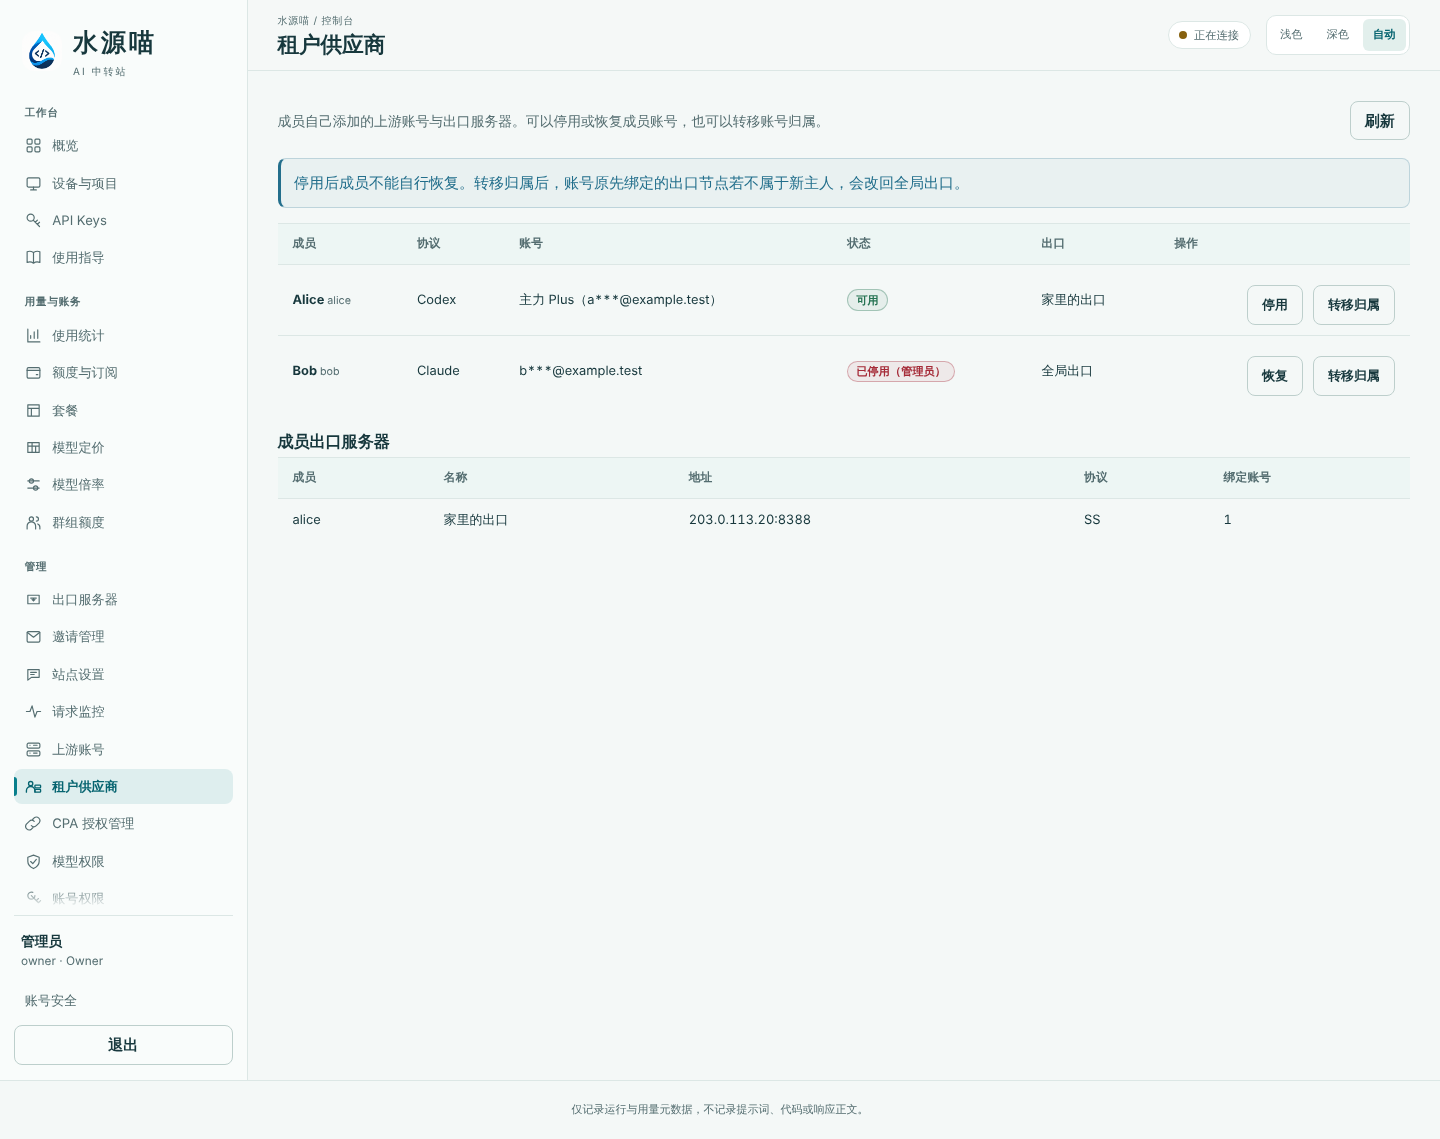
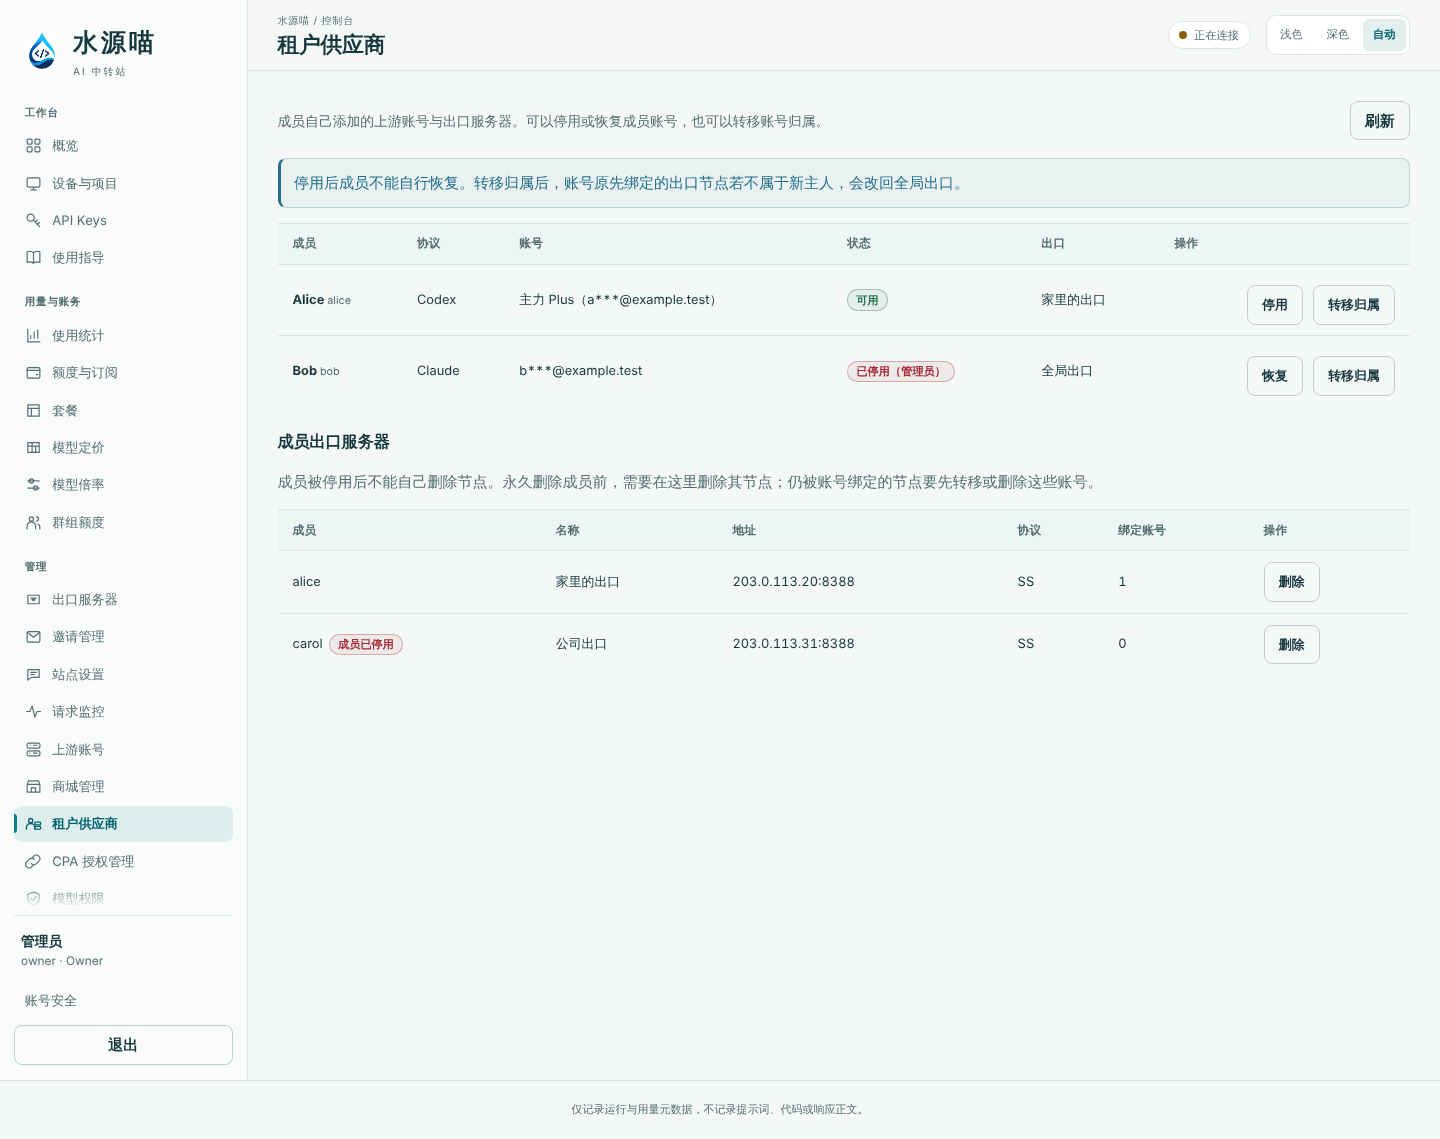
Show consent, member node deletion and deletion reasons in the dashboard
Subscription cards of seller plans whose scope includes API key suppliers
ask for the buyer's consent ("允许第三方 API 供应商") and let the buyer
withdraw it; the purchase confirmation says it can be withdrawn. The
tenant providers page marks nodes of disabled members and deletes a node
after a second click. The information page lists the searched users that
cannot be deleted, each reason with what to do about it.

Node tests cover consent on own and foreign billing pages, node deletion
and the blocked list; the browser scripts regenerate the member billing,
tenant providers and information screenshots and add
third-party-consent-*, tenant-providers-owner-egress-delete and
information-blocked-users-*.

Claude-Session: https://claude.ai/code/session_01GiCghBKCgi7S4MK4ZxjZwj

diff --git a/internal/server/assets/app.js b/internal/server/assets/app.js
@@ -3904,6 +3904,7 @@ function renderBillingSubscriptions(detail) {
       element("small", {text: `最终到期：${display.expires}`}),
       element("small", {className: "subscription-models", text: `适用模型：${billingModelText(billingModels(subscription)) || "无"}`}),
       subscription.provider_scope ? element("small", {className: "subscription-scope", text: billingSubscriptionScopeText(subscription.provider_scope)}) : null,
+      billingThirdPartyConsentBlock(detail, subscription),
       billingPlanBinding(subscription), billingSourceControl(subscription.id),
       element("details", {className: "subscription-period-details"}, element("summary", {text: "已购权益详情"}),
         element("small", {text: `${billingPeriodProgress(subscription)} · 额度不结转`}),
@@ -5741,6 +5742,37 @@ function billingPlanScopeText(scope) {
   const usable = accounts.filter((account) => account.usable === true).length;
   const stale = accounts.length - usable;
   return `供应商：指定 ${usable} 个账号${stale ? `，${stale} 个已失效` : ""}`;
+}
+
+// A seller's API key suppliers see the requests they serve, so they serve a
+// subscription only with the buyer's consent, even when the seller adds them
+// after the purchase. The buyer gives or withdraws it on the card.
+function billingThirdPartyConsentBlock(detail, subscription) {
+  const scope = subscription?.provider_scope;
+  if (!scope?.seller || !(scope.third_party_api === true || scope.third_party_acknowledged === true)) return null;
+  const acknowledged = scope.third_party_acknowledged === true;
+  const block = element("div", {className: "subscription-third-party", dataset: {thirdParty: acknowledged ? "acknowledged" : "pending"}},
+    element("small", {text: acknowledged
+      ? "已允许卖家的第三方 API 供应商为这个订阅服务，它们能看到经它处理的提示词和回复。"
+      : "卖家的供应商范围含第三方 API 供应商。你确认之前，它们不为这个订阅服务；确认后，它们能看到经它处理的提示词和回复。"}));
+  if (!loggingOut && billingUserForDetail(detail).id === state?.user?.id) {
+    const button = element("button", {type: "button", className: "secondary", text: acknowledged ? "撤回确认" : "允许第三方 API 供应商",
+      dataset: {thirdPartyConsent: subscription.id}});
+    button.addEventListener("click", () => runButton(button, () => setBillingThirdPartyConsent(subscription.id, !acknowledged), "保存中…"));
+    block.append(button);
+  }
+  return block;
+}
+
+async function setBillingThirdPartyConsent(subscriptionID, acknowledged) {
+  if (loggingOut || !billingDetail || billingUserForDetail(billingDetail).id !== state?.user?.id) return;
+  const actor = state.user.id, generation = identityGeneration;
+  const current = () => !loggingOut && state?.user?.id === actor && generation === identityGeneration;
+  await sensitiveAction(() => api(`/admin/billing/me/subscriptions/${encodeURIComponent(subscriptionID)}/third-party-consent`,
+    {method: "PUT", body: JSON.stringify({acknowledged})}, current), current);
+  if (!current()) return;
+  notice(acknowledged ? "已允许第三方 API 供应商，从下一次请求起生效。" : "已撤回确认：从下一次请求起，第三方 API 供应商不再为这个订阅服务。", "ok");
+  await loadBillingDashboard();
 }
 
 function billingSubscriptionScopeText(scope) {
@@ -10280,10 +10312,31 @@ function renderTenantProviders() {
   }));
   if (!result.accounts.length) body.append(element("tr", {}, element("td", {attributes: {colspan: "6"}, className: "empty", text: "成员还没有添加账号。"})));
   const nodes = byId("tenant-egress-body");
-  nodes.replaceChildren(...result.egress_servers.map((node) => element("tr", {},
-    element("td", {text: node.owner_username}), element("td", {text: node.name}), element("td", {text: `${node.server}:${node.port}`}),
-    element("td", {text: node.protocol === "socks5" ? "SOCKS5" : "SS"}), element("td", {text: formatInteger(node.bound_accounts)}))));
-  if (!result.egress_servers.length) nodes.append(element("tr", {}, element("td", {attributes: {colspan: "5"}, className: "empty", text: "成员还没有添加出口服务器。"})));
+  nodes.replaceChildren(...result.egress_servers.map((node) => {
+    const remove = element("button", {type: "button", className: "secondary", text: "删除", dataset: {tenantEgressDelete: node.id}});
+    remove.addEventListener("click", () => {
+      if (remove.dataset.confirm !== "true") { remove.dataset.confirm = "true"; remove.textContent = "确认删除"; return; }
+      runButton(remove, () => deleteTenantEgressServer(node), "删除中…");
+    });
+    const disabled = node.owner_status && node.owner_status !== "active";
+    return element("tr", {dataset: {egressId: node.id}},
+      element("td", {}, element("div", {className: "tenant-egress-owner"}, element("span", {text: node.owner_username}),
+        disabled ? element("span", {className: "status-badge", dataset: {status: "unavailable"}, text: "成员已停用"}) : null)),
+      element("td", {text: node.name}), element("td", {text: `${node.server}:${node.port}`}),
+      element("td", {text: node.protocol === "socks5" ? "SOCKS5" : "SS"}), element("td", {text: formatInteger(node.bound_accounts)}),
+      element("td", {}, remove));
+  }));
+  if (!result.egress_servers.length) nodes.append(element("tr", {}, element("td", {attributes: {colspan: "6"}, className: "empty", text: "成员还没有添加出口服务器。"})));
+}
+
+// A disabled member cannot sign in to remove a node, and every node of a
+// member blocks the member's permanent deletion; the Owner removes it here.
+async function deleteTenantEgressServer(node) {
+  const current = tenantProvidersIdentityCurrent();
+  await sensitiveAction(() => api(`/admin/tenant-providers/egress-servers/${encodeURIComponent(node.id)}`, {method: "DELETE", body: "{}"}, current), current);
+  if (!current()) return;
+  tenantProvidersMessage(`已删除 ${node.owner_username} 的出口服务器“${node.name}”。`, "ok");
+  await loadTenantProviders();
 }
 
 async function setTenantProviderSuspension(account, suspended) {
@@ -10908,6 +10961,43 @@ const informationReasonLabels = {
   plan_subscriptions: "其套餐仍有订阅记录", marketplace_sales: "仍有商城成交记录",
 };
 
+// What the Owner does about each reason a user cannot be deleted.
+const informationReasonRemedies = {
+  owner: "管理员账号不能删除。",
+  pending_approval: "注册申请尚待审批，先在“邀请管理”中处理。",
+  balance: "先在“额度与订阅”中把余额调整为零。",
+  subscriptions: "订阅停用后，由旧账务清理删除早于截止时间的订阅记录。",
+  subscription_entitlements: "订阅停用后，由旧账务清理删除早于截止时间的订阅记录。",
+  requests: "用上方的旧账务清理删除早于截止时间的历史。",
+  usage_summaries: "用上方的旧账务清理删除早于截止时间的历史。",
+  ledger: "用上方的旧账务清理删除早于截止时间的历史。",
+  billing_operations: "用上方的旧账务清理删除早于截止时间的历史。",
+  cash_lots: "余额为零后，旧账务清理会删除早于截止时间的资金批次。",
+  reservations: "等待请求结算后再试。",
+  running_requests: "等待请求结束后再试。",
+  management_history: "该用户执行过需要长期保留的管理操作，不能删除。",
+  providers: "成员在“我的供应商”中删除；成员已停用时，在“租户供应商”中转给平台后删除。",
+  egress_servers: "成员在“我的出口”中删除，或由 Owner 在“租户供应商”中删除。",
+  seller_plans: "成员在“我的套餐”中删除（成员已停用时需先恢复启用）。",
+  plan_subscriptions: "买家的订阅到期停用后，由旧账务清理删除。",
+  marketplace_sales: "成交的两条流水都被旧账务清理删除后，成交记录随之删除。",
+  not_found: "用户已不存在。",
+};
+let informationBlockedUsers = [];
+
+function renderInformationBlockedUsers() {
+  const host = byId("information-blocked");
+  if (!host) return;
+  const users = Array.isArray(informationBlockedUsers) ? informationBlockedUsers : [];
+  byId("information-blocked-users").replaceChildren(...users.map((user) => element("li", {dataset: {userId: user.id}},
+    element("div", {className: "information-blocked-user"},
+      element("strong", {text: user.display_name || user.username}), element("small", {text: user.username}), statusBadge(user.status || "active")),
+    element("ul", {className: "information-blocked-reasons"}, ...(user.reasons || []).map((reason) => element("li", {},
+      element("span", {text: informationReasonLabels[reason] || reason}),
+      informationReasonRemedies[reason] ? element("small", {text: informationReasonRemedies[reason]}) : null))))));
+  host.classList.toggle("hidden", users.length === 0);
+}
+
 function informationIdentityCurrent() {
   const generation = identityGeneration;
   return () => generation === identityGeneration && !loggingOut && state?.user?.role === "owner";
@@ -10939,6 +11029,8 @@ function resetInformation() {
   informationPreview = null;
   informationJob = null;
   informationUsers = [];
+  informationBlockedUsers = [];
+  renderInformationBlockedUsers();
   informationSelectedUsers.clear();
   informationSelectedDetails.clear();
   informationUsersReady = false;
@@ -11145,6 +11237,8 @@ async function loadInformationUsers(offset = 0) {
     if (!current()) return;
     if (!Array.isArray(result?.users)) throw new Error("候选用户响应格式异常。");
     informationUsers = result.users;
+    informationBlockedUsers = Array.isArray(result.blocked) ? result.blocked : [];
+    renderInformationBlockedUsers();
     for (const user of informationUsers) {
       if (informationSelectedUsers.has(user.id)) informationSelectedDetails.set(user.id, user);
     }

diff --git a/internal/server/assets/index.html b/internal/server/assets/index.html
@@ -1381,6 +1381,11 @@ powershell.exe -NoProfile -ExecutionPolicy RemoteSigned -File .\configure-openco
                 </table>
               </div>
               <div class="information-users-actions"><div class="button-group"><button id="information-users-prev" type="button" class="secondary" disabled>上一页</button><span id="information-users-page" class="muted">—</span><button id="information-users-next" type="button" class="secondary" disabled>下一页</button></div><button id="information-delete-users" type="button" class="danger" disabled>永久删除所选用户</button></div>
+              <section id="information-blocked" class="information-blocked hidden" aria-labelledby="information-blocked-title" aria-live="polite">
+                <h4 id="information-blocked-title">不能删除的匹配用户</h4>
+                <p class="muted">这些用户与搜索匹配，但现在不满足删除条件，所以不在上面的列表中。按原因处理后重新搜索。</p>
+                <ul id="information-blocked-users" class="information-blocked-users"></ul>
+              </section>
             </article>
           </section>
 
@@ -1504,7 +1509,8 @@ powershell.exe -NoProfile -ExecutionPolicy RemoteSigned -File .\configure-openco
             <p id="tenant-providers-message" class="form-message hidden" role="alert"></p>
             <div class="table-wrap"><table class="tenant-providers-table"><thead><tr><th>成员</th><th>协议</th><th>账号</th><th>状态</th><th>出口</th><th>操作</th></tr></thead><tbody id="tenant-providers-body"></tbody></table></div>
             <h3>成员出口服务器</h3>
-            <div class="table-wrap"><table><thead><tr><th>成员</th><th>名称</th><th>地址</th><th>协议</th><th>绑定账号</th></tr></thead><tbody id="tenant-egress-body"></tbody></table></div>
+            <p class="muted">成员被停用后不能自己删除节点。永久删除成员前，需要在这里删除其节点；仍被账号绑定的节点要先转移或删除这些账号。</p>
+            <div class="table-wrap"><table class="tenant-egress-table"><thead><tr><th>成员</th><th>名称</th><th>地址</th><th>协议</th><th>绑定账号</th><th>操作</th></tr></thead><tbody id="tenant-egress-body"></tbody></table></div>
           </section>
 
           <section class="view owner-only hidden" data-section="site-settings" aria-labelledby="site-settings-title">
@@ -1774,7 +1780,7 @@ powershell.exe -NoProfile -ExecutionPolicy RemoteSigned -File .\configure-openco
       <p id="billing-purchase-minimum" class="muted"></p>
       <div id="billing-purchase-summary" class="billing-purchase-summary" aria-live="polite"></div>
       <p id="billing-purchase-warning" class="billing-purchase-warning"></p>
-      <label id="billing-purchase-third-party" class="billing-purchase-confirm hidden"><input name="acknowledge_third_party" type="checkbox"><span>该套餐可能由卖家添加的第三方 API 供应商服务。我了解对方能看到经它处理的提示词和回复。</span></label>
+      <label id="billing-purchase-third-party" class="billing-purchase-confirm hidden"><input name="acknowledge_third_party" type="checkbox"><span>该套餐可能由卖家添加的第三方 API 供应商服务。我了解对方能看到经它处理的提示词和回复。可以随时在“额度与订阅”的订阅卡片上撤回。</span></label>
       <label class="billing-purchase-confirm"><input name="confirmed" type="checkbox" required><span>我已核对金额、周期及以上权益变化，确认从本人现金余额扣款。</span></label>
       <p class="form-message hidden" role="alert"></p>
       <div class="actions"><button type="button" class="secondary" data-close>关闭</button><button id="billing-purchase-submit" type="submit">确认购买订阅</button></div>

diff --git a/internal/server/assets/style.css b/internal/server/assets/style.css
@@ -4472,6 +4472,21 @@ button.share-bar-key:hover, .share-bar-key[aria-pressed="true"] { background: va
 .plan-scope-provider .check-label { overflow-wrap: anywhere; }
 .billing-plan-scope { color: var(--muted); }
 .subscription-scope { overflow-wrap: anywhere; }
+.subscription-third-party { display: grid; gap: .4rem; padding: .55rem .7rem; border: 1px solid var(--line); border-radius: 10px; }
+.subscription-third-party[data-third-party="pending"] { border-color: rgb(var(--warning-rgb) / 45%); background: rgb(var(--warning-rgb) / 8%); }
+.subscription-third-party small { overflow-wrap: anywhere; }
+.subscription-third-party button { justify-self: start; }
+
+/* Aggregation gateway stage 5: member nodes the Owner removes, and why a
+   searched user cannot be deleted. */
+.tenant-egress-owner { display: flex; flex-wrap: wrap; align-items: center; gap: .4rem; }
+.information-blocked { display: grid; gap: .5rem; margin-top: 1rem; padding-top: 1rem; border-top: 1px solid var(--line); }
+.information-blocked h4 { margin: 0; }
+.information-blocked-users { display: grid; gap: .75rem; margin: 0; padding: 0; list-style: none; }
+.information-blocked-user { display: flex; flex-wrap: wrap; align-items: center; gap: .5rem; }
+.information-blocked-reasons { display: grid; gap: .3rem; margin: .35rem 0 0; padding-left: 1.2rem; }
+.information-blocked-reasons li { display: grid; gap: .1rem; }
+.information-blocked-reasons small { color: var(--muted); overflow-wrap: anywhere; }
 .billing-self-use .check-label { margin-top: .25rem; }
 
 /* Aggregation gateway stage 4: seller plans and the marketplace. */
